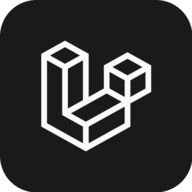
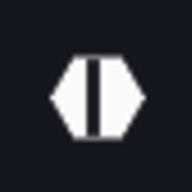
feat(brand): give the application a name, a mark and a colour of its own
The product is Basalt. ADR-0014 compares three names, records why the chrome
is dark in both themes, and carries the contrast table for every pair.

The chrome — topbar and sidebar — is dark whether the reader is in light mode
or dark mode, and is always darker than the canvas, by a different amount in
each. That is why it has its own token group instead of borrowing the canvas
tokens. Two dark surfaces are judged by OKLCH lightness difference rather than
by WCAG ratio: the ratio compresses to nothing in the shadows and was written
for text, not for telling two large fields apart.

The accent is plum at hue 330 — the farthest liveable hue from the eight
project colours, and not the colour of any product this could be mistaken for.
Every pair was computed rather than eyeballed, and one failed: the light-mode
primary on the chrome measures 2.36:1, which is why --chrome-primary exists as
the light step of the same hue in both themes.

The dark theme also moved. The starter kit gave --card and --background the
same value, so a card in dark mode had no surface at all, and a 14.9% border
drawn for a 3.9% canvas disappears against the card this theme now has.

Two things the rename broke and this fixes for good: Laravel derives the
session cookie from APP_NAME, so renaming the product signed everyone out —
SESSION_COOKIE is pinned now. And VITE_APP_NAME was a build-time second copy
of the name; Inertia v3's title callback receives the page, so the tab reads
[…]

diff --git a/resources/css/app.css b/resources/css/app.css
@@ -16,6 +16,7 @@
         'Apple Color Emoji', 'Segoe UI Emoji', 'Segoe UI Symbol',
         'Noto Color Emoji';
 
+    --radius-xl: calc(var(--radius) + 4px);
     --radius-lg: var(--radius);
     --radius-md: calc(var(--radius) - 2px);
     --radius-sm: calc(var(--radius) - 4px);
@@ -47,6 +48,23 @@
     --color-border: var(--border);
     --color-input: var(--input);
     --color-ring: var(--ring);
+
+    /* The brand accent, as steps rather than one value: a filled control needs a hover and an
+       active that stay readable, and a ring needs to be seen against three different surfaces. */
+    --color-primary-hover: var(--primary-hover);
+    --color-primary-active: var(--primary-active);
+    --color-primary-ring: var(--primary-ring);
+    --color-primary-subtle: var(--primary-subtle);
+    --color-primary-subtle-foreground: var(--primary-subtle-foreground);
+
+    /* The chrome is dark in both themes (ADR-0014), so it cannot borrow the canvas tokens. */
+    --color-chrome: var(--chrome);
+    --color-chrome-foreground: var(--chrome-foreground);
+    --color-chrome-muted-foreground: var(--chrome-muted-foreground);
+    --color-chrome-accent: var(--chrome-accent);
+    --color-chrome-border: var(--chrome-border);
+    --color-chrome-primary: var(--chrome-primary);
+    --color-chrome-primary-foreground: var(--chrome-primary-foreground);
 
     --color-chart-1: var(--chart-1);
     --color-chart-2: var(--chart-2);
@@ -99,8 +117,13 @@
     --card-foreground: hsl(0 0% 3.9%);
     --popover: hsl(0 0% 100%);
     --popover-foreground: hsl(0 0% 3.9%);
-    --primary: hsl(0 0% 9%);
-    --primary-foreground: hsl(0 0% 98%);
+    --primary: oklch(0.47 0.17 330);
+    --primary-foreground: oklch(0.985 0 0);
+    --primary-hover: oklch(0.42 0.17 330);
+    --primary-active: oklch(0.37 0.15 330);
+    --primary-ring: oklch(0.55 0.19 330);
+    --primary-subtle: oklch(0.965 0.022 330);
+    --primary-subtle-foreground: oklch(0.4 0.15 330);
     --secondary: hsl(0 0% 92.1%);
     --secondary-foreground: hsl(0 0% 9%);
     --muted: hsl(0 0% 96.1%);
@@ -111,13 +134,21 @@
     --destructive-foreground: hsl(0 0% 98%);
     --border: hsl(0 0% 92.8%);
     --input: hsl(0 0% 89.8%);
-    --ring: hsl(0 0% 3.9%);
+    --ring: oklch(0.55 0.19 330);
     --chart-1: hsl(12 76% 61%);
     --chart-2: hsl(173 58% 39%);
     --chart-3: hsl(197 37% 24%);
     --chart-4: hsl(43 74% 66%);
     --chart-5: hsl(27 87% 67%);
-    --radius: 0.5rem;
+    --radius: 0.625rem;
+    --chrome: oklch(0.205 0.012 285);
+    --chrome-foreground: oklch(0.985 0.002 285);
+    --chrome-muted-foreground: oklch(0.72 0.012 285);
+    --chrome-accent: oklch(0.28 0.012 285);
+    --chrome-border: oklch(0.3 0.012 285);
+    --chrome-primary: oklch(0.72 0.16 330);
+    --chrome-primary-foreground: oklch(0.19 0.03 330);
+
     --sidebar-background: hsl(0 0% 98%);
     --sidebar-foreground: hsl(240 5.3% 26.1%);
     --sidebar-primary: hsl(0 0% 10%);
@@ -130,30 +161,47 @@
 }
 
 .dark {
-    --background: hsl(0 0% 3.9%);
+    --background: oklch(0.205 0 0);
     --foreground: hsl(0 0% 98%);
-    --card: hsl(0 0% 3.9%);
+    /* A card is a surface, so in dark it is lighter than the canvas. The starter kit gave both
+       the same value, which left a card with no surface of its own at all. */
+    --card: oklch(0.245 0 0);
     --card-foreground: hsl(0 0% 98%);
-    --popover: hsl(0 0% 3.9%);
+    --popover: oklch(0.245 0 0);
     --popover-foreground: hsl(0 0% 98%);
-    --primary: hsl(0 0% 98%);
-    --primary-foreground: hsl(0 0% 9%);
+    --primary: oklch(0.72 0.16 330);
+    --primary-foreground: oklch(0.19 0.03 330);
+    --primary-hover: oklch(0.78 0.14 330);
+    --primary-active: oklch(0.84 0.11 330);
+    --primary-ring: oklch(0.72 0.16 330);
+    --primary-subtle: oklch(0.3 0.06 330);
+    --primary-subtle-foreground: oklch(0.87 0.09 330);
     --secondary: hsl(0 0% 14.9%);
     --secondary-foreground: hsl(0 0% 98%);
-    --muted: hsl(0 0% 16.08%);
-    --muted-foreground: hsl(0 0% 63.9%);
-    --accent: hsl(0 0% 14.9%);
+    --muted: hsl(0 0% 18%);
+    --muted-foreground: hsl(0 0% 66%);
+    --accent: hsl(0 0% 26%);
     --accent-foreground: hsl(0 0% 98%);
     --destructive: hsl(0 84% 60%);
     --destructive-foreground: hsl(0 0% 98%);
-    --border: hsl(0 0% 14.9%);
-    --input: hsl(0 0% 14.9%);
-    --ring: hsl(0 0% 83.1%);
+    /* Raised with the canvas: a 14.9% border was drawn for a 3.9% background and disappears
+       against the card this theme now has. */
+    --border: hsl(0 0% 22%);
+    --input: hsl(0 0% 24%);
+    --ring: oklch(0.72 0.16 330);
     --chart-1: hsl(220 70% 50%);
     --chart-2: hsl(160 60% 45%);
     --chart-3: hsl(30 80% 55%);
     --chart-4: hsl(280 65% 60%);
     --chart-5: hsl(340 75% 55%);
+    --chrome: oklch(0.14 0.008 285);
+    --chrome-foreground: oklch(0.985 0.002 285);
+    --chrome-muted-foreground: oklch(0.72 0.012 285);
+    --chrome-accent: oklch(0.22 0.008 285);
+    --chrome-border: oklch(0.25 0.008 285);
+    --chrome-primary: oklch(0.72 0.16 330);
+    --chrome-primary-foreground: oklch(0.19 0.03 330);
+
     --sidebar-background: hsl(0 0% 7%);
     --sidebar-foreground: hsl(0 0% 95.9%);
     --sidebar-primary: hsl(0 0% 100%);

diff --git a/resources/js/components/AppLogoIcon.vue b/resources/js/components/AppLogoIcon.vue
@@ -12,18 +12,18 @@ type Props = {
 defineProps<Props>();
 </script>
 
+<!--
+  The mark (ADR-0014): a flat-top hexagon — a basalt column seen end-on — split by a vertical
+  slot left of centre. Two operations on one path, no stroke and no gradient, so it survives
+  being 16px in a browser tab and being recoloured for the maskable icon.
+-->
 <template>
-    <svg
-        xmlns="http://www.w3.org/2000/svg"
-        viewBox="0 0 40 42"
-        :class="className"
-        v-bind="$attrs"
-    >
+    <svg xmlns="http://www.w3.org/2000/svg" viewBox="0 0 24 24" :class="className" v-bind="$attrs">
         <path
             fill="currentColor"
             fill-rule="evenodd"
             clip-rule="evenodd"
-            d="M17.2 5.633 8.6.855 0 5.633v26.51l16.2 9 16.2-9v-8.442l7.6-4.223V9.856l-8.6-4.777-8.6 4.777V18.3l-5.6 3.111V5.633ZM38 18.301l-5.6 3.11v-6.157l5.6-3.11V18.3Zm-1.06-7.856-5.54 3.078-5.54-3.079 5.54-3.078 5.54 3.079ZM24.8 18.3v-6.157l5.6 3.111v6.158L24.8 18.3Zm-1 1.732 5.54 3.078-13.14 7.302-5.54-3.078 13.14-7.3v-.002Zm-16.2 7.89 7.6 4.222V38.3L2 30.966V7.92l5.6 3.111v16.892ZM8.6 9.3 3.06 6.222 8.6 3.143l5.54 3.08L8.6 9.3Zm21.8 15.51-13.2 7.334V38.3l13.2-7.334v-6.156ZM9.6 11.034l5.6-3.11v14.6l-5.6 3.11v-14.6Z"
+            d="M7 3.34h10L22 12l-5 8.66H7L2 12 7 3.34ZM9.25 3.34h3.5v17.32h-3.5V3.34Z"
         />
     </svg>
 </template>

diff --git a/resources/js/components/AppLogo.vue b/resources/js/components/AppLogo.vue
@@ -6,14 +6,10 @@ const name = usePage().props.name;
 </script>
 
 <template>
-    <div
-        class="flex aspect-square size-8 items-center justify-center rounded-md bg-sidebar-primary text-sidebar-primary-foreground"
-    >
-        <AppLogoIcon class="size-5 fill-current text-white dark:text-black" />
-    </div>
-    <div class="ml-1 grid flex-1 text-left text-sm">
-        <span class="mb-0.5 truncate leading-tight font-semibold">{{
-            name
-        }}</span>
+    <div class="flex items-center gap-2">
+        <span class="flex size-7 shrink-0 items-center justify-center rounded-md bg-chrome-primary text-chrome-primary-foreground">
+            <AppLogoIcon class="size-4" />
+        </span>
+        <span class="truncate text-sm font-semibold tracking-tight text-chrome-foreground">{{ name }}</span>
     </div>
 </template>

diff --git a/resources/js/app.ts b/resources/js/app.ts
@@ -8,12 +8,15 @@ import { initializeFlashToast } from '@/lib/flashToast';
 import { applyModalLayer, configureModalLayer } from '@/lib/modalLayer';
 import { initializeOfflineNotice } from '@/lib/offlineNotice';
 
-const appName = import.meta.env.VITE_APP_NAME || 'Laravel';
-
 configureModalLayer();
 
 createInertiaApp({
-    title: (title) => (title ? `${title} - ${appName}` : appName),
+    /*
+     * The name comes from the page rather than from a build-time environment variable, so
+     * `APP_NAME` is the only place it is written and renaming the product does not need a
+     * rebuild to reach the browser tab.
+     */
+    title: (title, page) => (title ? `${title} — ${page.props.name}` : String(page.props.name)),
     withApp: applyModalLayer,
     layout: (name) => {
         switch (true) {

diff --git a/resources/js/layouts/auth/AuthSimpleLayout.vue b/resources/js/layouts/auth/AuthSimpleLayout.vue
@@ -24,7 +24,7 @@ defineProps<{
                             class="mb-1 flex h-9 w-9 items-center justify-center rounded-md"
                         >
                             <AppLogoIcon
-                                class="size-9 fill-current text-[var(--foreground)] dark:text-white"
+                                class="size-9 text-primary"
                             />
                         </div>
                         <span class="sr-only">{{ title }}</span>

diff --git a/resources/js/components/AppHeader.vue b/resources/js/components/AppHeader.vue
@@ -98,7 +98,7 @@ const rightNavItems: NavItem[] = [
                             >
                             <SheetHeader class="flex justify-start text-left">
                                 <AppLogoIcon
-                                    class="size-6 fill-current text-black dark:text-white"
+                                    class="size-6 text-primary"
                                 />
                             </SheetHeader>
                             <div

diff --git a/resources/js/layouts/auth/AuthSplitLayout.vue b/resources/js/layouts/auth/AuthSplitLayout.vue
@@ -24,7 +24,7 @@ defineProps<{
                 :href="home()"
                 class="relative z-20 flex items-center text-lg font-medium"
             >
-                <AppLogoIcon class="mr-2 size-8 fill-current text-white" />
+                <AppLogoIcon class="mr-2 size-8 text-chrome-primary" />
                 {{ name }}
             </Link>
         </div>

diff --git a/resources/js/layouts/auth/AuthCardLayout.vue b/resources/js/layouts/auth/AuthCardLayout.vue
@@ -27,7 +27,7 @@ defineProps<{
             >
                 <div class="flex h-9 w-9 items-center justify-center">
                     <AppLogoIcon
-                        class="size-9 fill-current text-black dark:text-white"
+                        class="size-9 text-primary"
                     />
                 </div>
             </Link>

diff --git a/resources/js/types/global.d.ts b/resources/js/types/global.d.ts
@@ -5,7 +5,6 @@ import type { Auth } from '@/types/auth';
 // Extend ImportMeta interface for Vite...
 declare module 'vite/client' {
     interface ImportMetaEnv {
-        readonly VITE_APP_NAME: string;
         readonly VITE_REVERB_APP_KEY: string;
         readonly VITE_REVERB_HOST: string;
         readonly VITE_REVERB_PORT: string;

diff --git a/tests/Feature/Pwa/ManifestTest.php b/tests/Feature/Pwa/ManifestTest.php
@@ -108,14 +108,22 @@ it('ships one icon family rather than two', function (): void {
 
     $shape = pngShape($apple);
 
+    /*
+     * The tile is asserted against the manifest's own `theme_color` rather than against a hex
+     * written here. Those two are the same colour by design — the application's chrome (ADR-0014)
+     * — and a third copy in a test is the copy that drifts.
+     */
+    $themeColor = $this->get(route('manifest'))->json('theme_color');
+
     expect($shape['width'])->toBe(180)
         ->and($shape['height'])->toBe(180)
         ->and($shape['corner']['alpha'])->toBe(0, 'iOS composites a transparent icon onto a colour nobody chose')
         ->and(sprintf('#%02x%02x%02x', $shape['corner']['red'], $shape['corner']['green'], $shape['corner']['blue']))
-        ->toBe('#1a1a1a');
+        ->toBe($themeColor);
 })->with([
     'the icon that predates the manifest was the red mark on transparency at 166px — a second,
-    older answer to the same question, which is what this asserts is gone',
+    older answer to the same question, which is what this asserts is gone; the tile and the
+    browser chrome are now asserted to be one colour rather than two that happen to match',
 ]);
 
 it('keeps the icons a browser tab asks for', function (): void {

diff --git a/resources/views/app.blade.php b/resources/views/app.blade.php
@@ -26,7 +26,7 @@
             }
 
             html.dark {
-                background-color: oklch(0.145 0 0);
+                background-color: oklch(0.205 0 0);
             }
         </style>
 
@@ -34,11 +34,12 @@
         <link rel="icon" href="/favicon.svg" type="image/svg+xml">
         <link rel="apple-touch-icon" href="/apple-touch-icon.png">
 
-        {{-- Two colours rather than one: the manifest may only carry the light surface, and a
-             browser chrome painted white around a dark application is the seam people notice. --}}
+        {{-- The browser's chrome is painted this application's chrome, which is dark in both
+             themes but not the same dark in each (ADR-0014) — the seam people notice is a browser
+             bar that does not match the topbar under it. --}}
         <link rel="manifest" href="{{ route('manifest') }}">
-        <meta name="theme-color" content="#ffffff" media="(prefers-color-scheme: light)">
-        <meta name="theme-color" content="#0a0a0a" media="(prefers-color-scheme: dark)">
+        <meta name="theme-color" content="#16161d" media="(prefers-color-scheme: light)">
+        <meta name="theme-color" content="#09090c" media="(prefers-color-scheme: dark)">
 
         @fonts
 

diff --git a/app/Http/Controllers/Pwa/ManifestController.php b/app/Http/Controllers/Pwa/ManifestController.php
@@ -30,12 +30,13 @@ class ManifestController extends Controller
                 'scope' => '/',
                 'display' => 'standalone',
                 /*
-                 * The light surface, `--background` in `resources/css/app.css`. A manifest carries
-                 * one colour; the pair that follows the reader's theme is in the root template,
-                 * where `prefers-color-scheme` can express it.
+                 * The splash screen is the canvas, and the browser's own chrome is painted the
+                 * application's chrome — which ADR-0014 keeps dark in both themes, so one value
+                 * is the honest answer here. The pair that follows the reader's theme is in the
+                 * root template, where `prefers-color-scheme` can express it.
                  */
                 'background_color' => '#ffffff',
-                'theme_color' => '#ffffff',
+                'theme_color' => '#16161d',
                 'icons' => [
                     ['src' => '/icon-192.png', 'sizes' => '192x192', 'type' => 'image/png', 'purpose' => 'any'],
                     ['src' => '/icon-512.png', 'sizes' => '512x512', 'type' => 'image/png', 'purpose' => 'any'],
